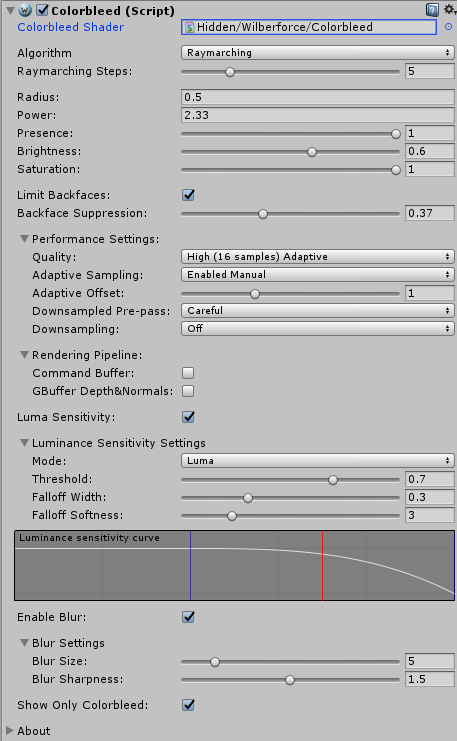
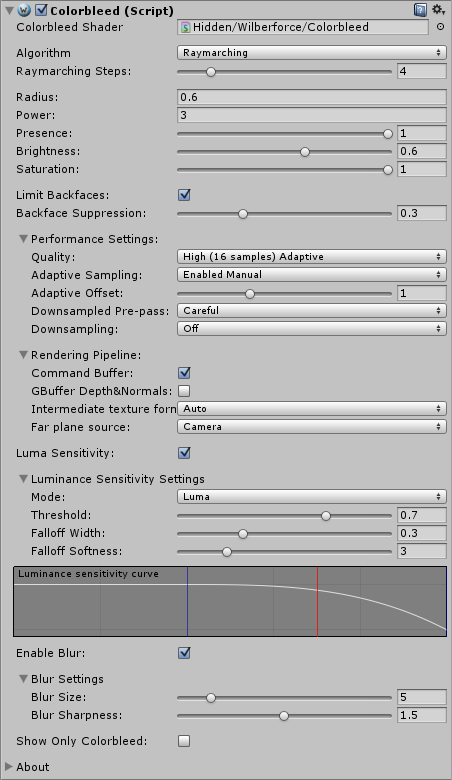
colorbleed manual update to 1.1

Changed region(s): [[0.0, 0.0, 1.0, 1.0], [0.3717, 0.9312, 0.4336, 0.9622]]

diff --git a/colorbleed/index.md b/colorbleed/index.md
@@ -15,7 +15,7 @@ title: Wilberforce Colorbleed Unity plugin User Guide
 
 # Introduction
 
-Wilberforce Colorbleed (WC) is our Screen Space Indirect Lighting Plugin for Unity 5 (5.3.0 or higher)
+Wilberforce Colorbleed (WC) is our Screen Space Indirect Lighting Plugin for Unity 5 (5.3.6 or higher)
 
 You can [download free demo](https://projectwilberforce.github.io/cbdemo) or buy Wilberforce Colorbleed at [Unity Asset Store](https://www.assetstore.unity3d.com/#!/content/85066).
 
@@ -49,11 +49,11 @@ See [forum for discussion](https://forum.unity3d.com/threads/colorbleed-image-ef
  
 # Requirements
 
-- Unity 5 (5.3.0 or higher; all editions including Personal)
+- Unity 5 (5.3.6 or higher; all editions including Personal)
 - Shader Model 3.0:  
 *NVIDIA cards since 2004 (GeForce 6)*  
 *AMD cards since 2005 (Radeon X1300)*  
-*Intel cards since 2006 (GMA X3000)* 
+*Intel cards since 2006 (GMA X3000)*
 - Works on desktop platforms: DirectX 9.0c and higher, OpenGL
 - Windows, Mac, Linux
 - Not tested on mobile and web platforms
@@ -122,22 +122,39 @@ Number of samples used to calculate WC. Select lower settings if you need faster
 
 Adaptive sampling means lower number of samples is used on more distant areas of the image. Ideally causes no loss of detail.
 
-- *Enabled Automatic*: Automatically determines where lower sample count should be used. 
+- *Enabled Automatic*: Automatically determines where lower sample count should be used.
 - *Enabled Manual*: Provides additional slider to fine-tune the change between the quality levels.
 
 **Downsampled Pre-pass**
 
 Speeds up the calculation by downsampling the parts with less colorbleed. Results in performance boost, especially for higher resolutions.
 
-- *Greedy*: Skips areas that are below certain threshold of color in the downsampled prepass. Fast, but may cause small loss of detail. 
-- *Careful*: Instead of skipping computes colorbleed with low quality setting. Smaller performance gain but no loss of detail. 
+- *Greedy*: Skips areas that are below certain threshold of color in the downsampled prepass. Fast, but may cause small loss of detail.
+- *Careful*: Instead of skipping computes colorbleed with low quality setting. Smaller performance gain but no loss of detail.
 
 **Downsampling**
 
 Reduces resolution of output, use this to gain performance at the cost of quality. Try lowering quality parameter first as this reduces quality dramatically. Having high quality setting with downsampling enabled serves no purpose.
 Alternatively, use this option if you have some sort of supersampling enabled - as high pixel density would have adverse effect on performance without much visual impact.
 
-**Luminance Sensitivity**
+
+### Rendering Pipeline
+
+**Command Buffer**  
+Insert effect via command buffer (BeforeImageEffectsOpaque event)
+
+**GBuffer Depth&Normal**  
+Take depth&normals from GBuffer of deferred rendering path, use this for better precision. Note that this feature will cause some performance drop.
+
+**Intermediate Texture Format**  
+
+This lets you specify texture format for mixing colorbleed command buffer with scene. *Auto* is recommended (handles switching between HDR by default).
+
+**Far Plane Source**  
+
+Source of Far Clipping Plane values. Some effects (notably Postprocessing Stack's Temporal Anti-aliasing) alter the *[_ProjectionParams](https://docs.unity3d.com/Manual/SL-UnityShaderVariables.html)* variable which may cause flickering. If you are planning on using TAA or similar effect enable the *Camera* option to fix this.
+
+### Luminance Sensitivity
 
 Reduces colorbleed effect on bright surfaces - either light sources or strongly lit areas. We recommend enabling this in combination with downsampling to reduce the most visible artifact caused by reducing of the colorbleed texture. Also use this to prevent colorbleed on lamps, windows, screens etc.
 
